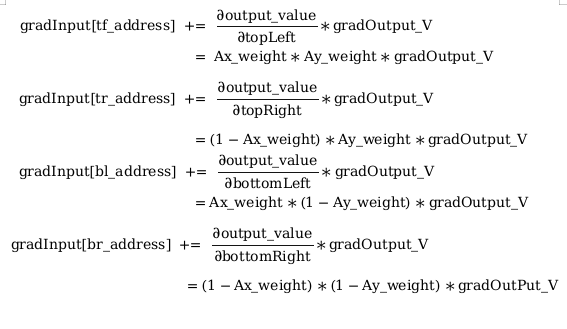
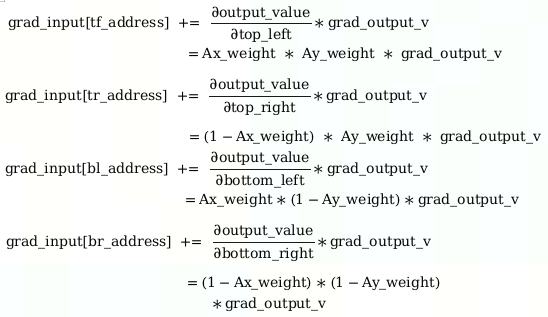
[Docs](bangc-ops):Add roi_crop op design docs (#81)
* [Docs](bangc-ops):Add roi_crop op design docs

* [modify] roi_crop design_docs

* [modify] roi_crop desion_docs

diff --git a/docs/bangc-docs/design_docs/roi_crop/roi_crop_design_docs.md b/docs/bangc-docs/design_docs/roi_crop/roi_crop_design_docs.md
@@ -5,9 +5,10 @@
 | 算子名称    | roi_crop       |
 | ----------- | -------------- |
 | 编制人/日期 | 涂德江/2022-5-30 |
-| 审批人/日期 | XX/2022-6-2   |
-| 审批人/日期 | XX/2022-6-2   |
-| 审批人/日期 | XX/2022-6-2   |
+| 审批人/日期 | 卜德飞/2022-6-15 |
+| 审批人/日期 | 吴少强/2022-6-19 |
+| 审批人/日期 | 王远/2022-7-1    |
+| 审批人/日期 | 周晨阳/2022-7-4  |
 
 - #### 修改记录
 
@@ -41,11 +42,11 @@
 | 需求来源                    | PyTorch                                  |
 | 应用网络                    | faster_rcnn、couplenet                   |
 | 输入数据类型                | float                                    |
-| 输入 Shape                  |1. roi_crop_forward:<br>input: [b,h,w,c]; grid: [n,out_h,out_w,2]<br>2. roi_crop_backward:<br>gradOutput: [n,out_h,out_w,c]; grid: [n,out_h,out_w,2]<br>注：n是b的整数倍|
-| 输入 Layout                 |1. roi_crop_forward:<br>input: NHWC; grid: ARRAY<br>2. roi_crop_backward:<br>gradOutput: NHWC; grid: ARRAY|
+| 输入 Shape                  |1. roi_crop_forward:<br>input: [b,h,w,c]; grid: [n,out_h,out_w,2]<br>2. roi_crop_backward:<br>grad_output: [n,out_h,out_w,c]; grid: [n,out_h,out_w,2]<br>注：n是b的整数倍|
+| 输入 Layout                 |1. roi_crop_forward:<br>input: NHWC; grid: ARRAY<br>2. roi_crop_backward:<br>grad_output: NHWC; grid: ARRAY|
 | 输出数据类型                 | float                                   |
-| 输出 Shape                  |1. roi_crop_forward:<br>output:[n, out_h, out_w, c]<br>2. roi_crop_backward:<br>gradInput:[b,h,w,c]|
-| 输出 Layout                 |1. roi_crop_forward:<br>ouput:NHWC<br>2. roi_crop_backward:<br>gradInput: NHWC            |
+| 输出 Shape                  |1. roi_crop_forward:<br>output:[n, out_h, out_w, c]<br>2. roi_crop_backward:<br>grad_input:[b,h,w,c]|
+| 输出 Layout                 |1. roi_crop_forward:<br>ouput:NHWC<br>2. roi_crop_backward:<br>grad_input: NHWC            |
 | 模式(可选）                 |            无                                |
 | 是否含有 dim/axis 等类似语义的参数且该参数支持负数/其他特殊处理 | 否          |
 | 是否含有 labels/index 等类似语义的参数且该参数支持负数/界外情况/其他特殊处理 | 否 |
@@ -64,7 +65,7 @@
 
 ![roi_crop_forward_func](./roi_crop_forward_func.png)
 
-从输入的 grid 中提取一个 (y, x) 坐标映射参数，反映射到 input 中的 A 处得到坐标信息(Ax, Ay)，获取A点附近整数点位 topLeft、topRight、bottomLeft、bottomRight 四处像素值, 根据 grid 中每个像素位 bin 的索引获得 output 中对应的偏移地址，最后通过双线性插值计算输出 output 的像素值。
+从输入的 grid 中提取一个 (y, x) 坐标映射参数，反映射到 input 中的 A 处得到坐标信息(Ax, Ay)，获取A点附近整数点位 top_left, top_right, bottom_left, bottom_right 四处像素值, 根据 grid 中每个像素位 bin 的索引获得 output 中对应的偏移地址，最后通过双线性插值计算输出 output 的像素值。
 
 **2) 主要计算公式**
 
@@ -78,12 +79,12 @@ Ay = (y + 1) * (height - 1) / 2;  Ay_weight = 1 - (Ay - floor(Ay));
 
 双线性插值计算 output 输出值：
 
-output_value = Ax_weight * Ay_weight * topLeft
-                  + (1 - Ax_weight) * Ay_weight * topRight
-                  + Ax_weight * (1 - Ay_weightt) * bottomLeft
-                  + (1 - Ax_weight) * (1 - Ay_weightt) * bottomRight；
+output_value = Ax_weight * Ay_weight * top_left
+                  + (1 - Ax_weight) * Ay_weight * top_right
+                  + Ax_weight * (1 - Ay_weightt) * bottom_left
+                  + (1 - Ax_weight) * (1 - Ay_weightt) * bottom_right；
 
-这里的 Ax_weight 和 Ay_weight 是坐标点 (Ax, Ay) 到 bottomRight 右下角点的距离，其它类似。
+这里的 Ax_weight 和 Ay_weight 是坐标点 (Ax, Ay) 到 bottom_right 右下角点的距离，其它类似。
 
 #### 1.2.2 roi_crop_backward
 
@@ -91,7 +92,7 @@ output_value = Ax_weight * Ay_weight * topLeft
 
 ![roi_crop_backward](./roi_crop_backward.png)
 
-根据 grid 中 bin 的索引获取 gradOutput 中对应的梯度值 gradOutput_V，从 grid 中获取的每个（y, x）坐标映射参数，可以反映射到 gradInput 中的A处得到坐标信息(Ax, Ay) ，获取 A 点附近四处整数点位偏移地址 tl_address、tr_address、bl_address、br_address；最后根据权重信息计算 A 点附近四处整数点位可获得的梯度值。
+根据 grid 中 bin 的索引获取 grad_output 中对应的梯度值 grad_output_v，从 grid 中获取的每个（y, x）坐标映射参数，可以反映射到 grad_input 中的A处得到坐标信息(Ax, Ay) ，获取 A 点附近四处整数点位偏移地址 tl_address、tr_address、bl_address、br_address；最后根据权重信息计算 A 点附近四处整数点位可获得的梯度值。
 
 **2) 主要计算公式**
 
@@ -103,7 +104,7 @@ Ay = (y + 1) * (height - 1) / 2;  Ay_weight = 1 - (Ay - floor(Ay));
 
 梯度计算：
 
-![gradoutput](./roi_crop_backward_func.png)
+![grad_output](./roi_crop_backward_func.png)
 
 #### 1.2.3 算子主要应用场景
 
@@ -118,11 +119,11 @@ Ay = (y + 1) * (height - 1) / 2;  Ay_weight = 1 - (Ay - floor(Ay));
 | 参数        | 语义 | 类型（输入/输出） | 支持类型    | 物理布局 | 规模限制 |
 | ----------- | ---- | ----------------- | ----------- | -------- | -------- |
 | handle      |MLU_OPS 上下文的指针| 输入              |mluOpHandle_t| /        | 无       |
-| input_desc |输入数据 input 的形状描述结构体，定义了 input 的数据类型，数据维度和布局| 输入 |mluOpTensorDescriptor_t| / | 无 |
+| input_desc |对输入数据 input 的形状描述，包含了 input 的数据类型、数据维度和布局等信息| 输入 |mluOpTensorDescriptor_t| / | 无 |
 | input      |输入 tensor input 的地址| 输入              | float | NHWC     | 无       |
-| grid_desc |输入数据 gird 的形状描述结构体，定义了 grid 的数据类型，数据维度和布局| 输入 |mluOpTensorDescriptor_t| / | 无    |
+| grid_desc |对输入数据 gird 的形状描述，包含了 grid 的数据类型、数据维度和布局等信息| 输入 |mluOpTensorDescriptor_t| / | 无    |
 | grid      |输入 tensor grid 的地址| 输入              | float | ARRAY    | 无       |
-| output_desc |输入数据 output 的形状描述结构体，定义了 output 的数据类型，数据维度和布局| 输入 |mluOpTensorDescriptor_t| /  | 无 |
+| output_desc |对输出数据 output 的形状描述，包含了 output 的数据类型、数据维度和布局等信息| 输入 |mluOpTensorDescriptor_t| /  | 无 |
 | output      |输出 tensor output 的地址 | 输出         |    float         | NHWC     | 无       |
 
 #### 1.3.2 roi_crop_backward
@@ -130,26 +131,26 @@ Ay = (y + 1) * (height - 1) / 2;  Ay_weight = 1 - (Ay - floor(Ay));
 | 参数        | 语义 | 类型（输入/输出） | 支持类型    | 物理布局 | 规模限制 |
 | ----------- | ---- | ----------------- | ----------- | -------- | -------- |
 | handle      |MLU_OPS 上下文的指针  | 输入  |mluOpHandle_t             | /        | 无       |
-| gradOutput_desc |输入数据 gradOutput 的形状描述结构体，定义了 gradOutput 的数据类型，数据维度和布局| 输入 |mluOpTensorDescriptor_t | /        | 无       |
-| gradOutput      |输入 tensor gradOutput 的地址|输入 |  float    | NHWC     | 无       |
-| grid_desc |输入数据 gird 的形状描述结构体，定义了 grid 的数据类型，数据维度和布局| 输入   |mluOpTensorDescriptor_t | /        | 无       |
+| grad_output_desc |对输入数据 grad_output 的形状描述，包含了 grad_output 的数据类型、数据维度和布局等信息| 输入 |mluOpTensorDescriptor_t | /        | 无       |
+| grad_output      |输入 tensor grad_output 的地址|输入 |  float    | NHWC     | 无       |
+| grid_desc |对输入数据 gird 的形状描述结构体，包含了 grid 的数据类型、数据维度和布局等信息| 输入   |mluOpTensorDescriptor_t | /        | 无       |
 | grid      |输入 tensor grid 的地址| 输入  |float | ARRAY    | 无       |
-| gradInput_desc |输入数据 gradInput 的形状描述结构体，定义了 gradInput 的数据类型，数据维度和布局      | 输入  | mluOpTensorDescriptor_t  | /   | 无       |
-| gradInput      |输出 tensor gradInput 的地址      | 输出              | float | NHWC    | 无       |
+| grad_input_desc |对输出数据 grad_input 的形状描述，包含了 grad_input 的数据类型、数据维度和布局等信息      | 输入  | mluOpTensorDescriptor_t  | /   | 无       |
+| grad_input      |输出 tensor grad_input 的地址      | 输出              | float | NHWC    | 无       |
 
 ### 1.4 算子限制
 
 | 限制类型     | 详细说明  |
 | ------------ | ---------------------------------|
-| 数据类型限制 | input、grid、output、gradOutput和gradInput只支持float    |
-| 布局限制     | input、gradInput、output和gradOutput为NHWC; grid为ARRAY  |
+| 数据类型限制 | input,grid,output,grad_output和grad_input只支持float    |
+| 布局限制     | input,grad_input,output和grad_output为NHWC; grid为ARRAY  |
 | 规模限制     | 无限制                            |
 | 功能限制     | 无限制     |
 | 数据范围限制 | grid 中数据范围：[-1,1]        |
 | 原位限制     | 不支持原位   |
 | stride 限制  | 不支持 stride 机制    |
 | 广播限制     | 不支持广播  |
-|nan/inf 限制|grid 不支持 nan/inf 数据|
+|nan / inf 限制|grid 不支持 nan / inf 数据|
 
 ### 1.5 验收标准
 
@@ -179,7 +180,7 @@ int BilinearSamplerBHWD_updateOutput_cuda(THCudaTensor *inputImages,
 
 - cuda函数接口
 ```c++
-int BilinearSamplerBHWD_updateGradInput_cuda(THCudaTensor *inputImages, 
+int BilinearSamplerBHWD_updategradInput_cuda(THCudaTensor *inputImages, 
                                              THCudaTensor *grids, 
                                              THCudaTensor *gradInputImages,
                                              THCudaTensor *gradGrids, 
@@ -201,12 +202,12 @@ mluOpStatus_t MLUOP_WIN_API mluOpRoiCropForward(const mluOpHandle_t handle,
 #### 2.2.2 roi_crop_backward
 ```c++
 mluOpStatus_t MLUOP_WIN_API mluOpRoiCropBackward(const mluOpHandle_t handle,
-                                                 const mluOpTensorDescriptor_t gradOutput_desc,
-                                                 const void *gradOutput,
+                                                 const mluOpTensorDescriptor_t grad_output_desc,
+                                                 const void *grad_output,
                                                  const mluOpTensorDescriptor_t grid_desc,
                                                  const void *grid,
-                                                 const mluOpTensorDescriptor_t gradInput_desc,
-                                                 void *gradInput)
+                                                 const mluOpTensorDescriptor_t grad_input_desc,
+                                                 void *grad_input)
 ```
 ## 3 实现方案设计
 
@@ -222,8 +223,8 @@ mluOpStatus_t MLUOP_WIN_API mluOpRoiCropBackward(const mluOpHandle_t handle,
 #### 3.1.2 roi_crop_backward
 
 - step1: 根据 grid 中 bin 的个数进行任务规模划分，每个 IPU 分到 task_bins 份，task_bins = taskId < rem_bins ? bin_n / taskDim + 1 : bin_n / taskDim；
-- step2: 根据双线性插值梯度计算公式知，1 个 bin 需要 gradOutput 下的 1 个 channels 得到 gradOutput 下的 4 个 channels，所以拆分 NRAM 为 10 等份，每份 PAD_DOWN(MAX_NRAM_SIZE/ 10 / sizeof(float)，NFU_ALIGN_SIZE / sizeof(float))个数据，用于存储 gradOutput 的 2 个 channels 数据量(ping 占 1 个，pong 占 1 个)，用于存储 gradInput 的 8 个 channels 数据量(ping 占 4 个，pong 占 4 个)；
-- step3: 每个 IPU 循环获取 gw、gh、gn 等信息，进而得到 gradOutput 和 gradInput 的偏移地址，拷贝 GDRAM 中数据到 NRAM；
+- step2: 根据双线性插值梯度计算公式知，1 个 bin 需要 grad_output 下的 1 个 channels 得到 grad_output 下的 4 个 channels，所以拆分 NRAM 为 10 等份，每份 PAD_DOWN(MAX_NRAM_SIZE/ 10 / sizeof(float)，NFU_ALIGN_SIZE / sizeof(float))个数据，用于存储 grad_output 的 2 个 channels 数据量(ping 占 1 个，pong 占 1 个)，用于存储 grad_input 的 8 个 channels 数据量(ping 占 4 个，pong 占 4 个)；
+- step3: 每个 IPU 循环获取 gw、gh、gn 等信息，进而得到 grad_output 和 grad_input 的偏移地址，拷贝 GDRAM 中数据到 NRAM；
 - step4: NRAM 下使用三级流水，进行计算。
 
 ### 3.2 伪代码实现（可选）
@@ -293,7 +294,7 @@ bins_loop_per = bins_first_per + task_bins;<br>
 
 2、roi_crop_backward
 
-|gradOutput|grid|gradInput|source data type |destination data type|
+|grad_output|grid|grad_input|source data type |destination data type|
 |----|----|----|----|----|
 |[1, 3, 1, 1]|[1, 3, 1, 2]|[1, 5, 5, 500]|float |float|
 |[1, 5, 5, 500]|[1, 5, 5, 2]|[1, 32, 32, 500]|float |float|
@@ -313,14 +314,6 @@ bins_loop_per = bins_first_per + task_bins;<br>
 2、检测 tensor 是否为 0 元素；
 
 3、检查输入、输出 tensor 的数据类型、物理布局和规模是否正确；
-
-4、是否需要对输入输出支持的 dtype、layout 以及 shape 进行防呆；
-
-5、elementwise 算子则需要保证输入输出的每一个维度都要一样；
-
-6、算子存在的自身的相关参数防呆。
-
-主要是列出 4, 5, 6 防呆内容，方便 review。
 
 ## 4 算子性能优化记录
 
